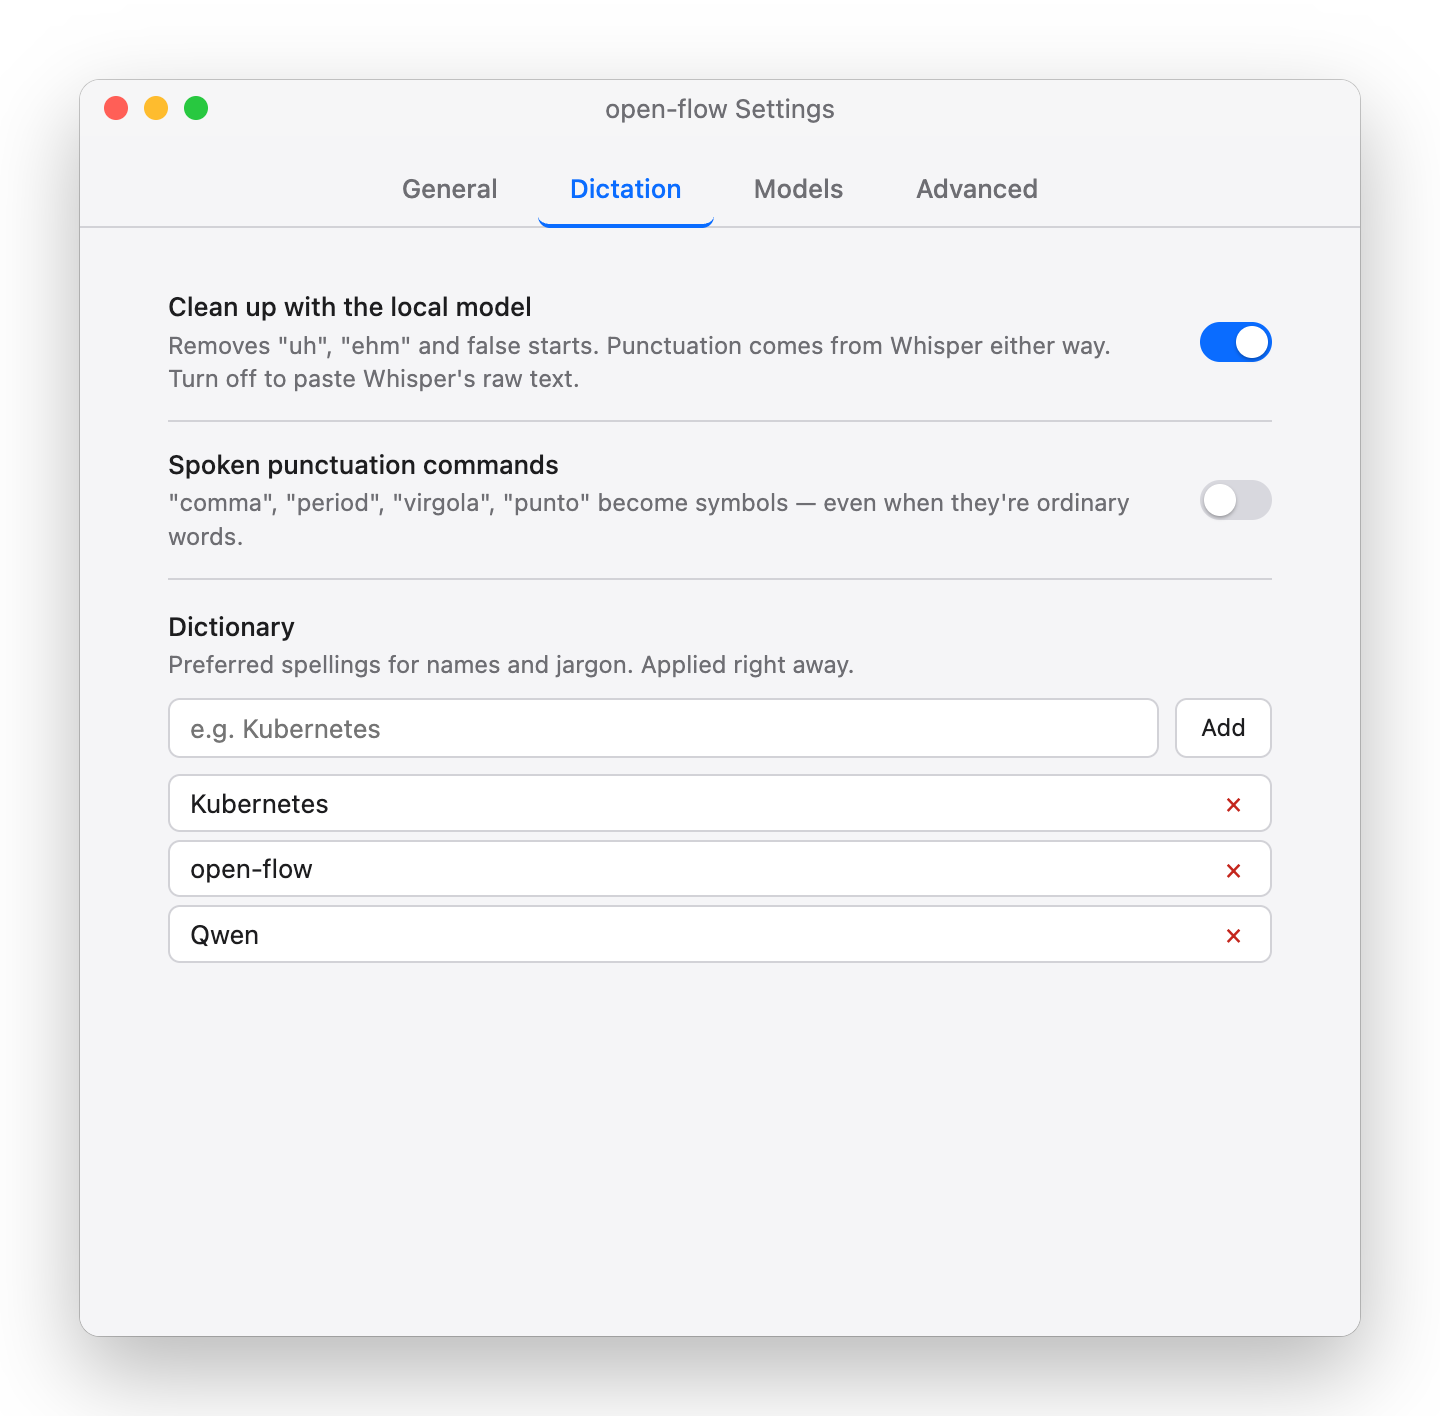
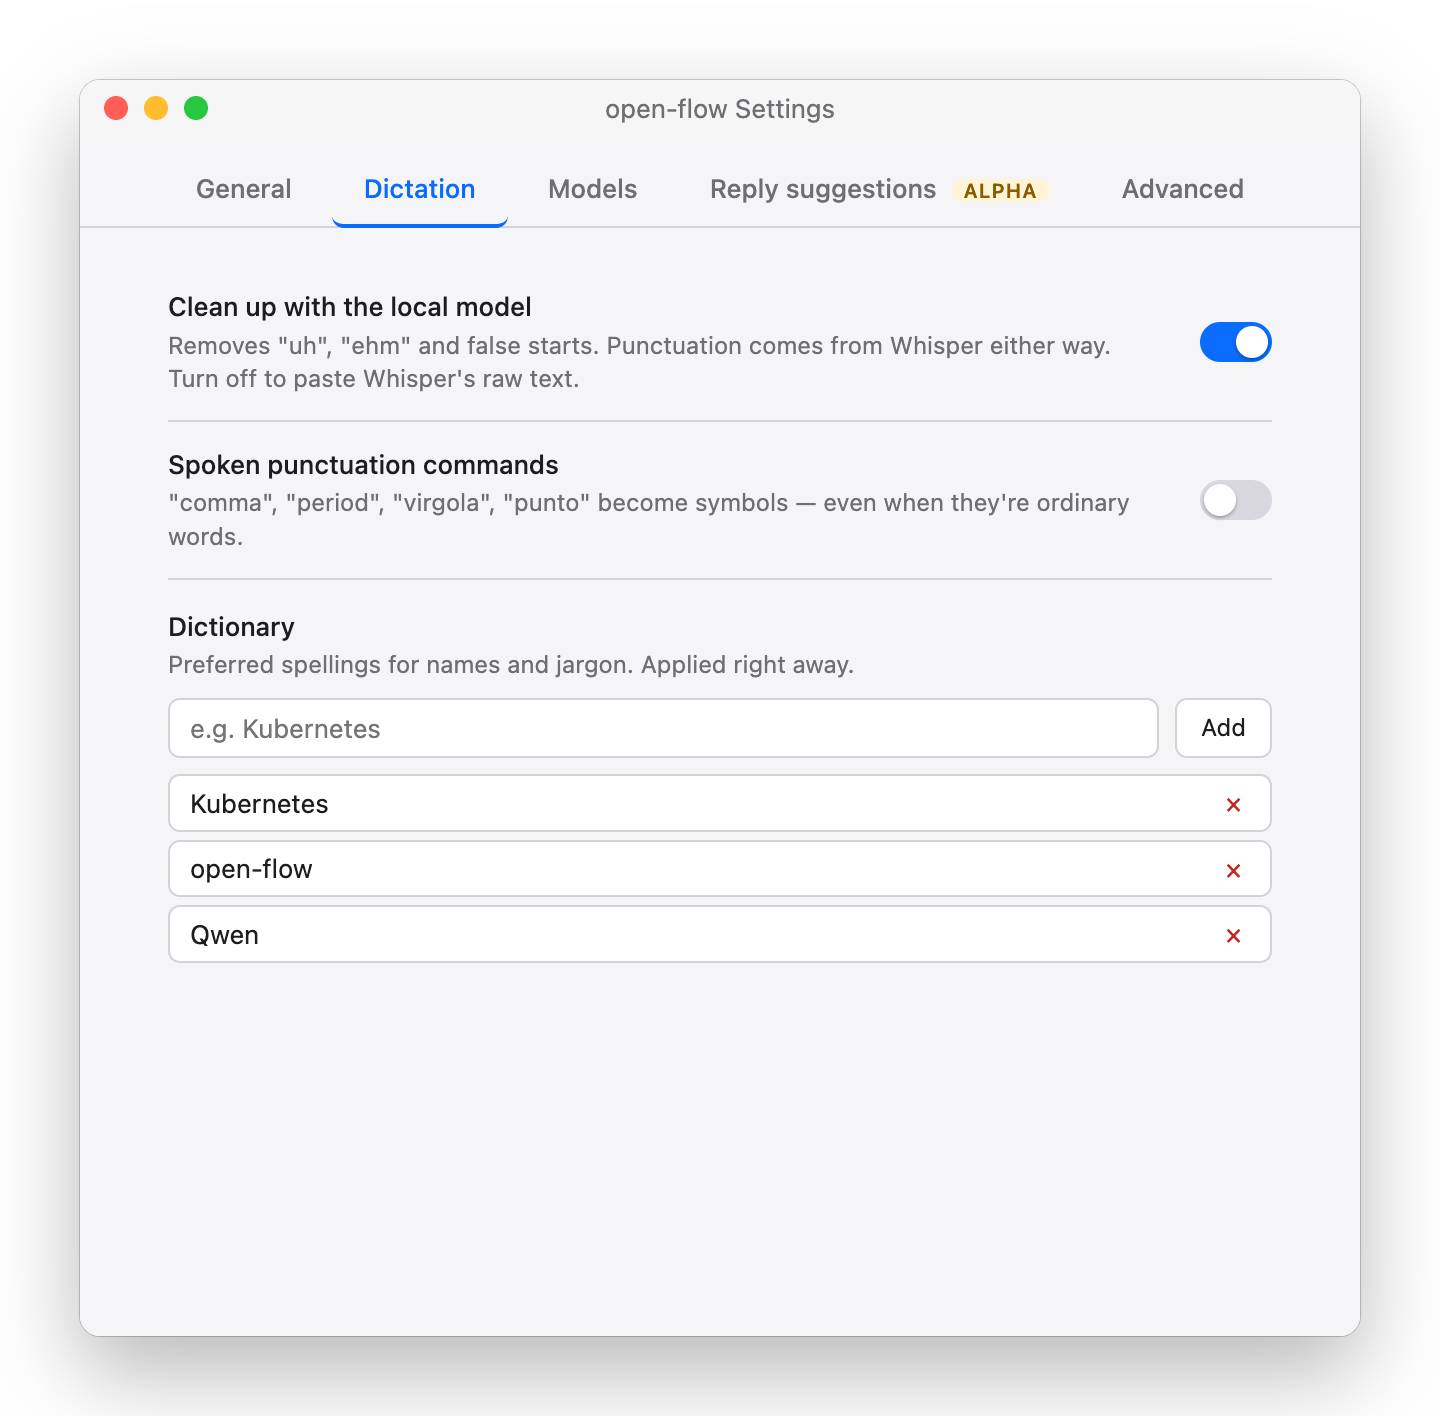
docs(readme): document Reply suggestions (alpha) with a Settings screenshot
Add the Reply suggestions Settings screenshot (light and dark, reply-on
scenario) to tools/readme-media and show it under the alpha callout in the
README section. The Dictation and Models screenshots are regenerated because
the Settings window now has the fifth, Alpha-badged tab.

diff --git a/tools/readme-media/generate.ts b/tools/readme-media/generate.ts
@@ -39,6 +39,7 @@ const FRAME_SHOTS = [
   { name: "setup-quality", title: "open-flow Setup", page: "setup.html", w: 640, h: 620, q: "step=tier" },
   { name: "settings-dictation", title: "open-flow Settings", page: "preferences.html", w: 640, h: 600, q: "scenario=installed&tab=dictation" },
   { name: "settings-models", title: "open-flow Settings", page: "preferences.html", w: 640, h: 600, q: "scenario=installed&tab=models" },
+  { name: "settings-reply", title: "open-flow Settings", page: "preferences.html", w: 640, h: 600, q: "scenario=reply-on&tab=reply" },
 ];
 
 // Copy of injectMock() from tools/renderer-preview/build.ts (that module runs main() on import).

diff --git a/README.md b/README.md
@@ -149,7 +149,7 @@ Dictation tools that feel instant usually send your voice to a server. open-flow
 <p align="center">
   <picture>
     <source media="(prefers-color-scheme: dark)" srcset="docs/media/settings-reply-dark.png">
-    <img src="docs/media/settings-reply-light.png" width="520" alt="Settings, Reply suggestions tab with the Alpha badge: the feature switched on, the Standard reply model installed, the apps list and the shortcut.">
+    <img src="docs/media/settings-reply-light.png" width="520" alt="Settings, Reply suggestions tab with the Alpha badge: the feature switched on with the Standard reply model ready, your name and the Command+Control+R shortcut.">
   </picture>
 </p>
 
